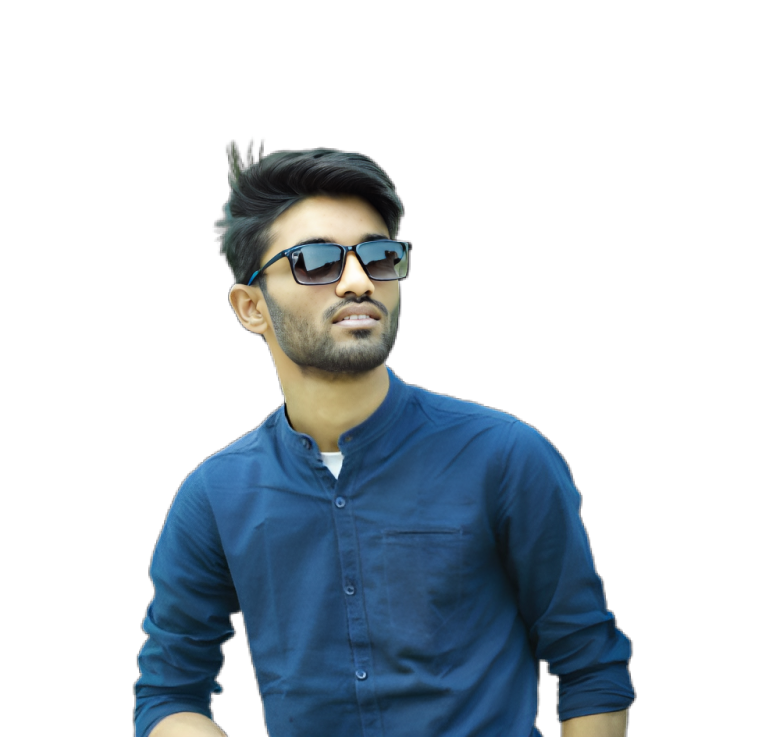
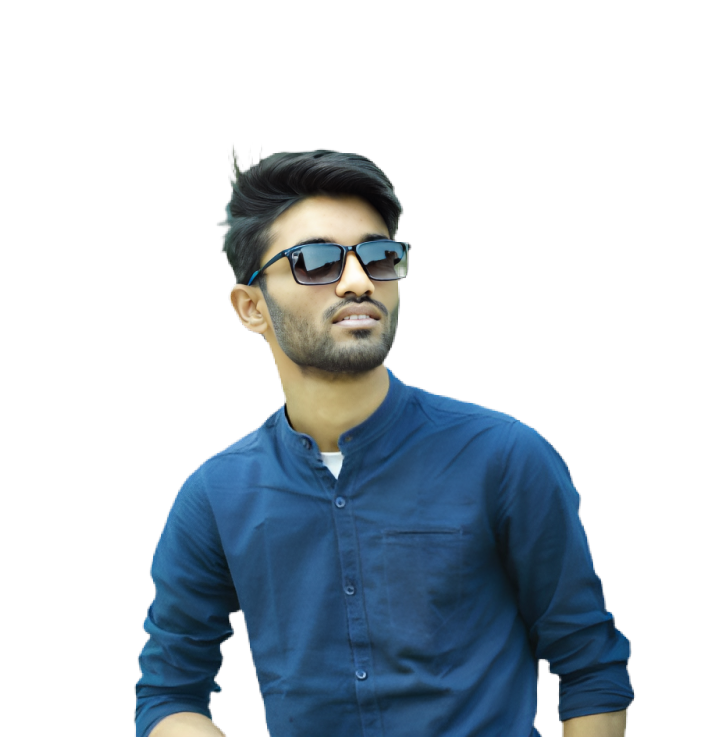
Home & Education Image Update

Changed region(s): [[0.1549, 0.1872, 0.8986, 1.0]]

diff --git a/app/page.js b/app/page.js
@@ -1,36 +1,34 @@
 'use client'
 
-import imgProfile from '@/public/Profile.png'
+import imgProfile from '@/public/home.png'
 import Typewriter from "@/src/Components/Typewriter";
 import Link from "next/link";
 
 export default function Home() {
 
-  const textToType = 'const Sakib_Talukqder = () => { \n\n     I am a CSTean form Bangladesh; \n     Learning (Computer_Science) => ({ \n         MoulviBazar Polytechnic Institute; \n         matarkapun, Moulvibazar;\n         Department of Computer Technology; \n     })\n     [...Assalamulaikum,Wlcome To My Portfolio]\n\n} \nSakib_Talukqder(); ';
+  const textToType = 'const Sakib_Talukqder = () => { \n\n     [...Assalamulaikum,Wlcome To My Portfolio]\n     I am a CSTean form Bangladesh; \n     Learning (Computer_Science) => ({ \n         MoulviBazar Polytechnic Institute; \n         matarkapun, Moulvibazar;\n         Department of Computer Technology; \n     })  \n\n} Sakib_Talukqder(); ';
 
   return (
     <main className="m-4">
 
       <div className="flex flex-col lg:flex-row-reverse w-full items-center justify-between">
-
-
-        
+                
       <div className="md:w-1/2 w-full flex md:justify-end justify-center md:my-8">
           <figure className="flex items-center justify-center w-[500px] h-[500px] overflow-hidden">
 
             <svg id="sw-js-blob-svg" viewBox="0 0 100 100" xmlns="http://www.w3.org/2000/svg">
               <defs>
                 <linearGradient id="sw-gradient" x1="0" x2="1" y1="1" y2="0">
-                  <stop id="stop1" stop-color="rgba(45, 255, 196, 1)" offset="0%"></stop>
-                  <stop id="stop2" stop-color="rgba(251, 168, 31, 1)" offset="100%"></stop>
+                  <stop id="stop1" stop-color="#f7b733" offset="0%"></stop>
+                  <stop id="stop2" stop-color="#fc4a1a" offset="100%"></stop>
                 </linearGradient>
               </defs>
               <mask id="profile" mask-type="alpha">
                 <path className="transition" fill="url(#sw-gradient)" d="M21.3,-30.8C27.3,-24.9,31.8,-18.3,34.1,-11.1C36.4,-3.9,36.5,4,35.2,12.5C34,21.1,31.3,30.3,25.2,34.8C19.1,39.4,9.6,39.3,0.8,38.2C-8,37.1,-16,35,-23.5,30.9C-30.9,26.8,-37.9,20.7,-41.2,12.9C-44.4,5,-43.9,-4.5,-40.3,-12.3C-36.7,-20,-29.9,-26,-22.7,-31.5C-15.4,-37.1,-7.7,-42.3,-0.1,-42.2C7.6,-42.1,15.2,-36.7,21.3,-30.8Z" width="100%" height="100%" transform="translate(50 50)" strokeWidth="0"></path>
               </mask>
               <g mask="url(#profile)">
-                <path className="transition animation-svg glow" fill="url(#sw-gradient)" d="M21.3,-30.8C27.3,-24.9,31.8,-18.3,34.1,-11.1C36.4,-3.9,36.5,4,35.2,12.5C34,21.1,31.3,30.3,25.2,34.8C19.1,39.4,9.6,39.3,0.8,38.2C-8,37.1,-16,35,-23.5,30.9C-30.9,26.8,-37.9,20.7,-41.2,12.9C-44.4,5,-43.9,-4.5,-40.3,-12.3C-36.7,-20,-29.9,-26,-22.7,-31.5C-15.4,-37.1,-7.7,-42.3,-0.1,-42.2C7.6,-42.1,15.2,-36.7,21.3,-30.8Z" width="100%" height="100%" transform="translate(50 50)" strokeWidth="0"></path>
-                <image href={imgProfile.src} x="0" y="0" width="100" height="100" className="rounded-lg shadow-2xl" alt="Profile Sakib Talukqder" />
+                <path className="transition" fill="url(#sw-gradient)" d="M21.3,-30.8C27.3,-24.9,31.8,-18.3,34.1,-11.1C36.4,-3.9,36.5,4,35.2,12.5C34,21.1,31.3,30.3,25.2,34.8C19.1,39.4,9.6,39.3,0.8,38.2C-8,37.1,-16,35,-23.5,30.9C-30.9,26.8,-37.9,20.7,-41.2,12.9C-44.4,5,-43.9,-4.5,-40.3,-12.3C-36.7,-20,-29.9,-26,-22.7,-31.5C-15.4,-37.1,-7.7,-42.3,-0.1,-42.2C7.6,-42.1,15.2,-36.7,21.3,-30.8Z" width="100%" height="100%" transform="translate(50 50)" strokeWidth="0"></path>
+                <image href={imgProfile.src} x="-10" y="0" width="100" height="100" className="rounded-lg shadow-2xl" alt="Profile Sakib Talukqder" />
               </g>
             </svg>
 
@@ -44,7 +42,7 @@ export default function Home() {
               <div className="w-3 h-3 rounded-full bg-yellow-500 mr-1"></div>
               <div className="w-3 h-3 rounded-full bg-green-500"></div>
             </div>
-            <div className="md:text-md text-sm w-full p-4 pb-5 flex items-center textAnimation">
+            <div className="md:text-lg text-white text-sm w-full p-4 pb-5 flex items-center textAnimation">
               <Typewriter text={textToType} />
             </div>
             <div className='w-full pe-3 flex justify-end'>

diff --git a/app/route/projects/page.jsx b/app/route/projects/page.jsx
@@ -1,7 +1,7 @@
 import React from 'react';
 import Image from 'next/image';
 
-const items = 
+const items =
     [
         {
             "title": "My Portfolio ",
@@ -55,39 +55,40 @@ const items =
 
 const page = () => {
     return (
-        <div className='my-8'>
-            <div className='text-xl bg-green-50 text-gray-950 text-center p-3'>My Works & Experience </div>
+        <div className='my-5'>
             {
                 items.map((item, ind) => (
-                    <div key={ind} className="hero gap-7">
-                        <div className={`hero-content flex-col ${ind % 2 == 0 ? 'lg:flex-row-reverse' : 'lg:flex-row'}`}>
-                            <>
-                                <div className="text-center lg:text-left">
-                                    <Image src={item.imageName} alt={item.title} width={500} height={300} />
-                                </div>
-                                <div className=" hero-content w-full max-w-sm shadow-2xl p-4 md:p-10">
-                                    <div className=" ">
-                                        <h2 className="text-2xl font-bold mb-4">{item.title}</h2>
-                                        <p className="mb-4">{item.description}</p>
-                                        <p className="mb-4">
-                                            <strong>Technologies used:</strong> {item.technologies}
-                                        </p>
-                                        <a href={item.ctaLink} target='/' className=" btn btn-success btn-sm">
-                                            {
-                                                ind % 2 == 0 ? 'View case study ==>' : '<== View case study'
-                                            }
-                                        </a>
+                    <>
+                        <div className='text-xl text-center p-3'>{item.title}</div> <hr />
+                        <div key={ind} className="hero h-[80vh]">
+                            <div className={`hero-content flex-col ${ind % 2 == 0 ? 'lg:flex-row-reverse' : 'lg:flex-row'}`}>
+                                <>
+                                    <div className="text-center lg:text-left">
+                                        <Image src={item.imageName} alt={item.title} width={500} height={300} />
                                     </div>
-                                </div>
-                            </>
-
+                                    <div className=" hero-content w-full max-w-sm shadow-2xl p-4 md:p-10">
+                                        <div className=" ">
+                                            <h2 className="text-2xl font-bold mb-4">{item.title}</h2>
+                                            <p className="mb-4">{item.description}</p>
+                                            <p className="mb-4">
+                                                <strong>Technologies used:</strong> {item.technologies}
+                                            </p>
+                                            <a href={item.ctaLink} target='/' className=" btn btn-success btn-sm">
+                                                {
+                                                    ind % 2 == 0 ? 'View case study ==>' : '<== View case study'
+                                                }
+                                            </a>
+                                        </div>
+                                    </div>
+                                </>
+                            </div>
                         </div>
-                    </div>
+                    </>
                 ))
             }
 
         </div>
-        )
-    }
-      
+    )
+}
+
 export default page;

diff --git a/app/route/about/Education.jsx b/app/route/about/Education.jsx
@@ -1,6 +1,6 @@
 "use client";
 import React from 'react';
-import imgProfile from '@/public/sakib2.jpg'
+import imgProfile from '@/public/Profile.png'
 import Image from 'next/image';
 import { Accordion } from "keep-react";
 import { CaretDown, CaretUp } from "phosphor-react";
@@ -11,8 +11,8 @@ const Education = () => {
         <div className=" bg-blue-50 md:p-12">
             <div className='text-xl bg-orange-600 text-center p-3'>My Education </div>
             <div className="flex flex-col lg:flex-row-reverse items-center">
-                <div className='flex items-center justify-center w-[30%] my-8'>
-                    <Image src={imgProfile} alt='Sakib Talukqder' className="max-w-sm rounded-lg shadow-2xl" />
+                <div className='flex items-center justify-center w-[30%]'>
+                    <Image quality={100} src={imgProfile} alt='Sakib Talukqder' className="max-w-sm rounded-lg shadow-2xl bg-gradient-to-r from-blue-900 to-green-500" />
                 </div>
                 <div className='my-8 me-0 mx-0 md:me-16 md:w-[70%]'>
                     <Accordion

diff --git a/app/style.css b/app/style.css
@@ -11,7 +11,7 @@ body {
 }
 
 .glow {
-  animation: GlowEffect 2s ease-in-out infinite alternate;
+  animation: GlowEffect 10s ease-in-out infinite alternate;
 }
 
 .textAnimation {
@@ -69,16 +69,16 @@ body {
 }
 
 @keyframes GlowEffect {
-from {
-  -webkit-box-shadow: 0px 0px 300px 0px rgba(45, 255, 196, 0.71);
-    -moz-box-shadow: 0px 0px 300px 0px rgba(45, 255, 196, 0.71);
-    box-shadow: 0px 0px 300px 0px rgba(45, 255, 196, 0.71);
+  from {
+    -webkit-box-shadow: 0px 0px 300px 0px #65a9b6;
+    -moz-box-shadow: 0px 0px 300px 0px #65a9b6;
+    box-shadow: 0px 0px 300px 0px #65a9b6;
   }
 
   to {
-    -webkit-box-shadow: 0px 0px 300px 0px rgba(45, 255, 196, 0.51);
-    -moz-box-shadow: 0px 0px 300px 0px rgba(45, 255, 196, 0.51);
-    box-shadow: 0px 0px 300px 0px rgba(45, 255, 196, 0.51);
+    -webkit-box-shadow: 0px 0px 300px 0px #e4b359;
+    -moz-box-shadow: 0px 0px 300px 0px #e4b359;
+    box-shadow: 0px 0px 300px 0px #e4b359;
   }
 }
 
